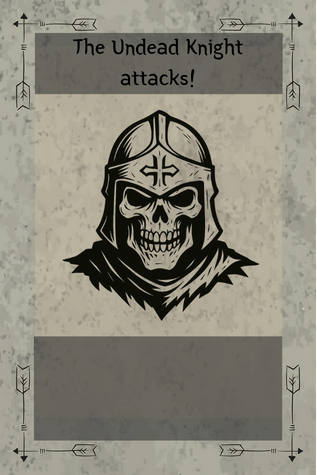
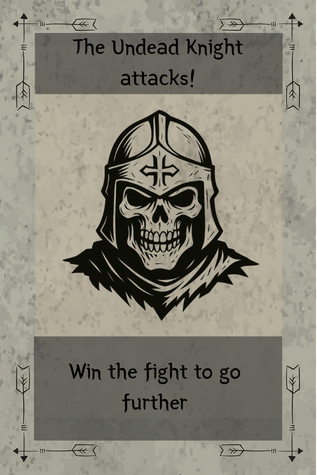
changed undead art. Fixed last boss. Logic was good

Changed region(s): [[0.3691, 0.7663, 0.7666, 0.8842], [0.1987, 0.7663, 0.4259, 0.7958]]

diff --git a/Assets/Cards/04_EnemyCards/Scripts/EnemyCard.cs b/Assets/Cards/04_EnemyCards/Scripts/EnemyCard.cs
@@ -7,7 +7,7 @@ using UnityEngine.Serialization;
 
 namespace Cards.EnemyCards
 {
-    [CreateAssetMenu(fileName = "EnemyCard", menuName = "Card/EnemyCard")]
+    [CreateAssetMenu(fileName = "EnemyCard:enemy", menuName = "Card/EnemyCard/Enemy")]
     public class EnemyCard :Card
     {
         public EnemyAttackBehaviour enemyAttackAttackBehaviour;

diff --git a/Assets/Cards/04_EnemyCards/Scripts/BossCard.cs b/Assets/Cards/04_EnemyCards/Scripts/BossCard.cs
@@ -1,7 +1,9 @@
 using System;
+using UnityEngine;
 
 namespace Cards.EnemyCards
 {
+    [CreateAssetMenu(fileName = "EnemyCard: boss", menuName = "Card/EnemyCard/Boss")]
     public class BossCard : EnemyCard
     {
         public void OnEnable()
